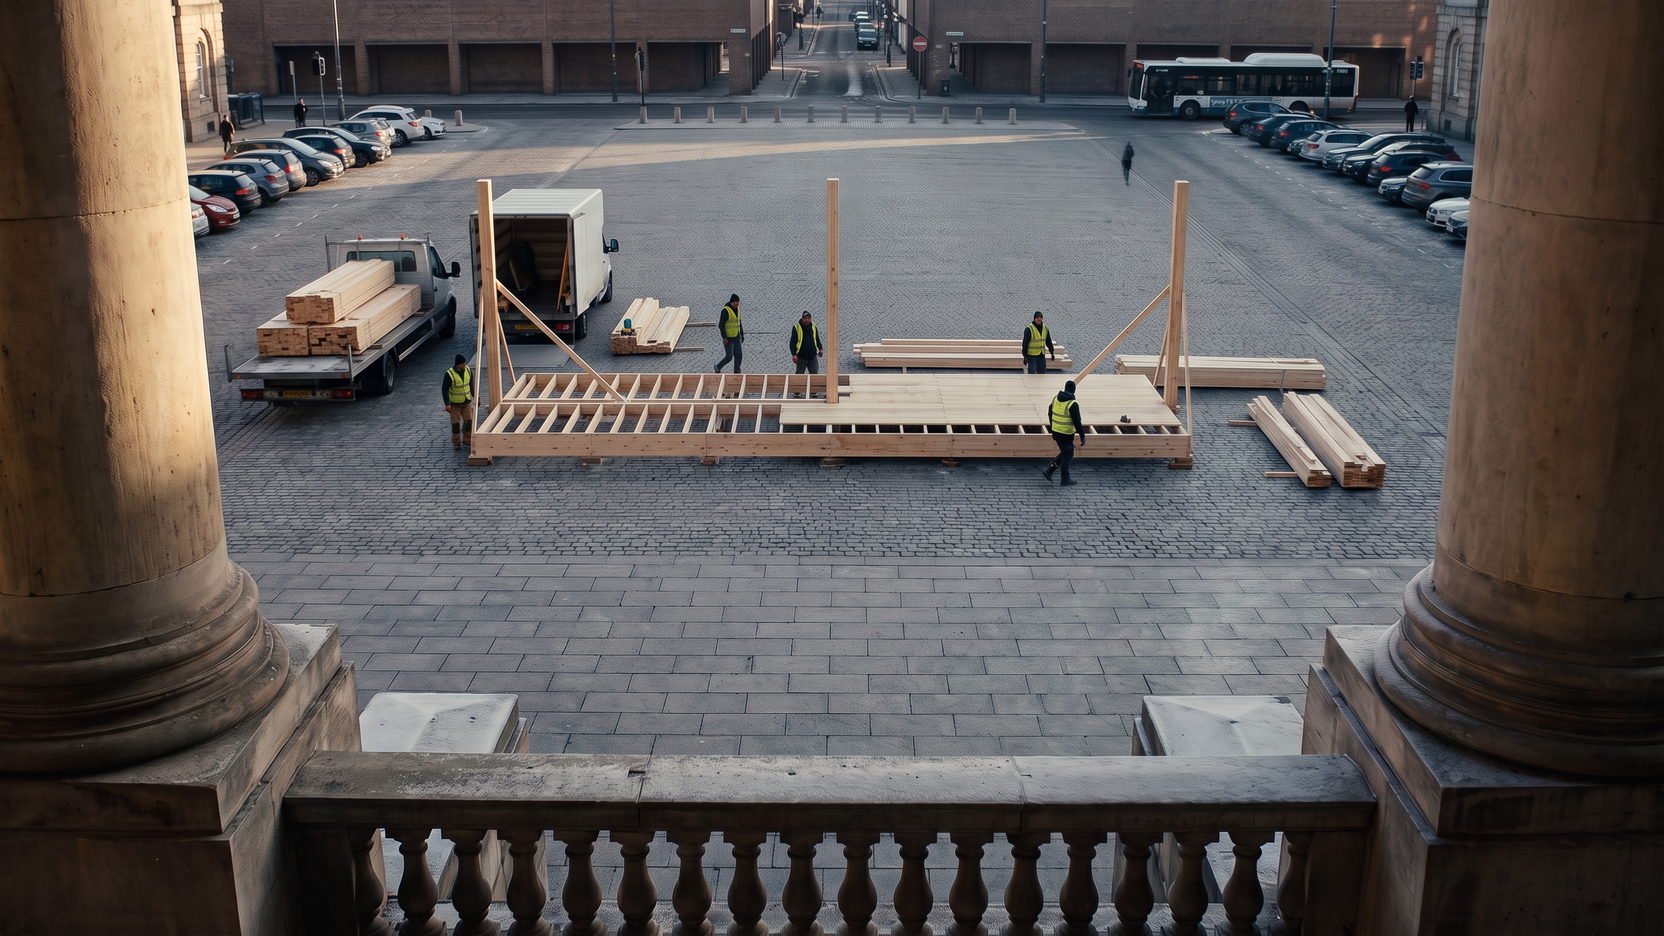
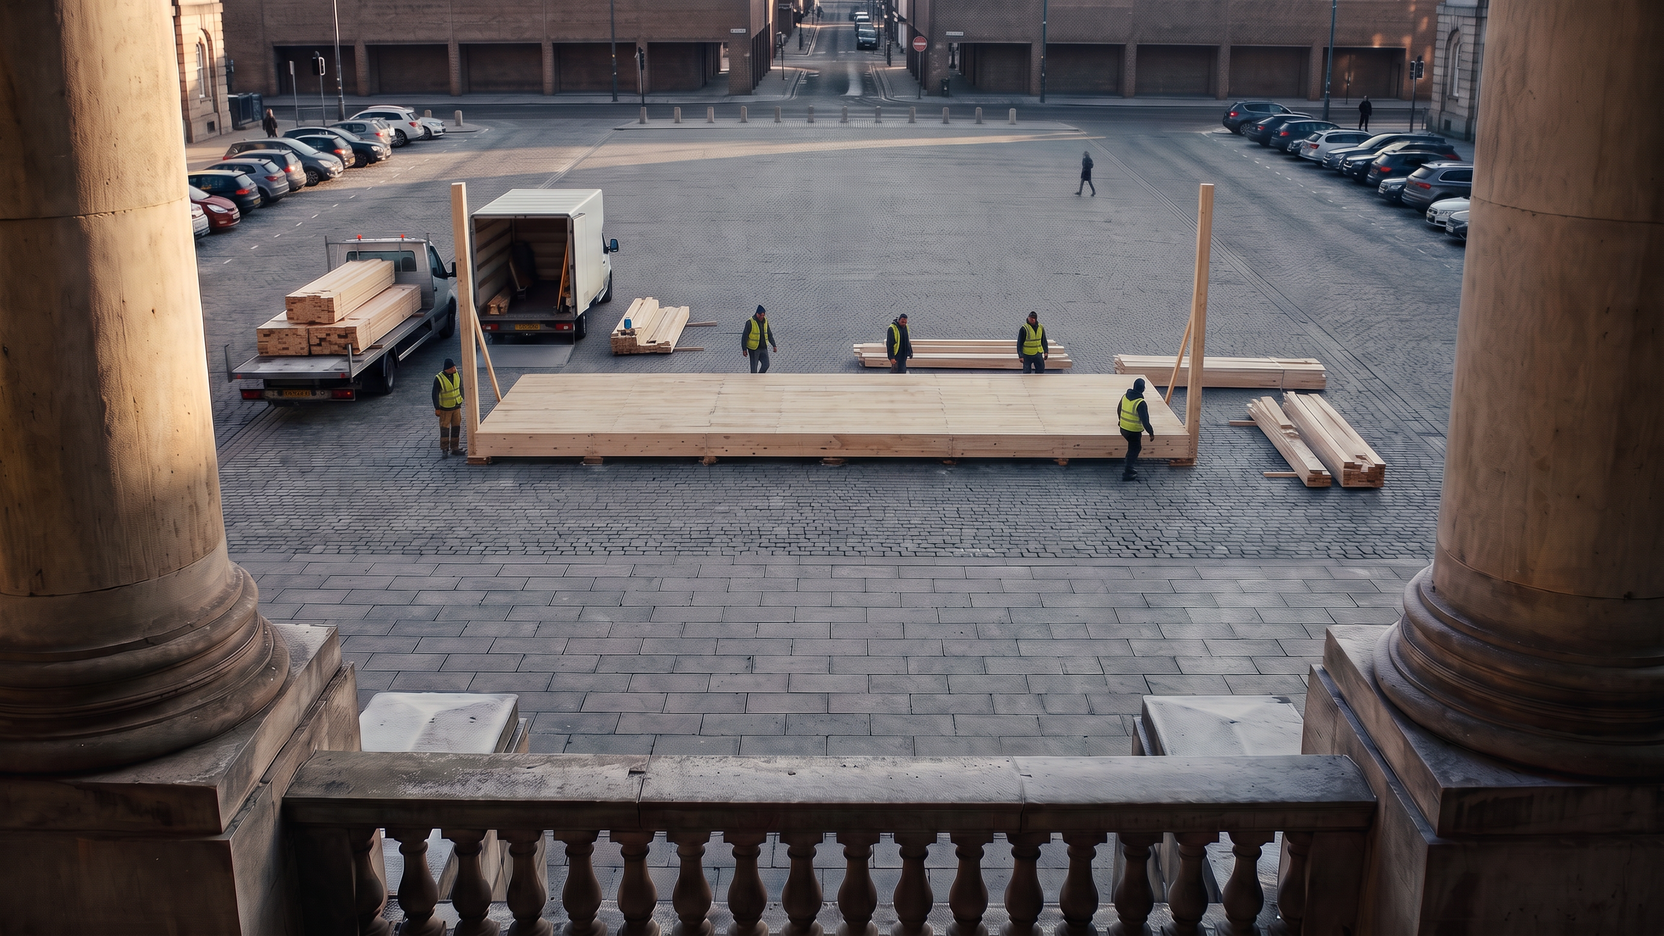
NH-S901 v7: SH006 stage parallel to the facade; worker shots slowed 0.75x with motion-compensated interpolation
Claude-Session: https://claude.ai/code/session_0119jELvJaasFuGQ8S9TGFfk

diff --git a/projects/new_harnomy_usa/03_design/environments/city_hall/blockout/fal_rekey_sh006.py b/projects/new_harnomy_usa/03_design/environments/city_hall/blockout/fal_rekey_sh006.py
@@ -68,6 +68,15 @@ JOBS = {
        "areas with the same empty grey granite paving, matching the low raking winter light and frost. Change "
        "nothing else: the columns, balustrade, stage, workmen, vehicles, distant pedestrians, buildings and light "
        "stay exactly as they are."),
+ # D (after C): Brad on v6 - the stage in this shot is at an angle to City Hall; every shot must have it parallel.
+ "D": ([os.path.join(OUT, "SH006_C.png"), CLAY],
+       "Edit this photograph (the FIRST image). The long timber platform is currently skewed - its left end is nearer "
+       "the camera than its right end. Rotate it about its centre so that it is EXACTLY PARALLEL to the building's "
+       "facade and to the stone balustrade in the foreground: its long near edge must run perfectly horizontal "
+       "across the frame, both ends at the same height and the same distance from the camera, exactly as the grey "
+       "model in the SECOND image shows it. Move the two tall pine uprights with it so they stand at the two ends of "
+       "the platform's near edge, vertical, no crossbeam. Keep the camera, the columns, the balustrade, the paving, "
+       "the lumber truck and van, the workmen, the distant pedestrians and the light exactly as they are."),
  "B": ([CLAY, EXT_FIRST],
        LAYOUT + "Use the SECOND reference only for materials, light and the life of the square - the warm limestone, "
        "the grey granite setts, the low winter sun and frost, the parked cars, the lumber flatbed, the box van, the "

diff --git a/projects/new_harnomy_usa/04_preproduction/storyboards/NH-S901_THE_SCAFFOLD_TEASER.md b/projects/new_harnomy_usa/04_preproduction/storyboards/NH-S901_THE_SCAFFOLD_TEASER.md
@@ -182,3 +182,6 @@ B; variant A, with the v3 key as second reference, kept the wrong layout — the
 a single-reference cleanup edit removing the foreground pedestrians (C). Veo 3.1 re-rendered SH006 from the new key
 (6 s, 1080p/24, locked camera). Everything else is v5. The v3 key is in `_v3_takes/`, the v5 Veo take in
 `05_production/renders/NH-S901/veo/v5_pov_at_building/`. Cost: 3 edits ≈ $0.45, Veo $1.20.
+
+### v7 production record (2026-09-05)
+Brad on v6: (1) SH006's stage sat at an angle to City Hall - every shot must have it parallel; (2) worker movement too fast and jerky. (1) Single-reference straightening edit on the v6 key with the clay as second reference (fal_rekey_sh006.py D), Veo re-rendered; the model also completed the decking in that frame, accepted as consistent with SH007. (2) The Veo clips carry no duplicated frames - the model animates the figures too briskly - so shots 3, 4, 6, 7, 8, 9 are slowed to 75% in post with ffmpeg motion-compensated interpolation (minterpolate mci/aobmc/bidir), every output frame synthesized; RIFE on the ComfyUI box is the fallback if any shot ghosts. SFX offsets inside those shots were NOT retimed for the 0.75x - check the saw (SH004) and the beam seat (SH007) against picture. Banner wording change (TWEED's / Contribution vs Contrition) pending Brad's answers. Cost: 1 edit ~$0.15, Veo $1.20.
